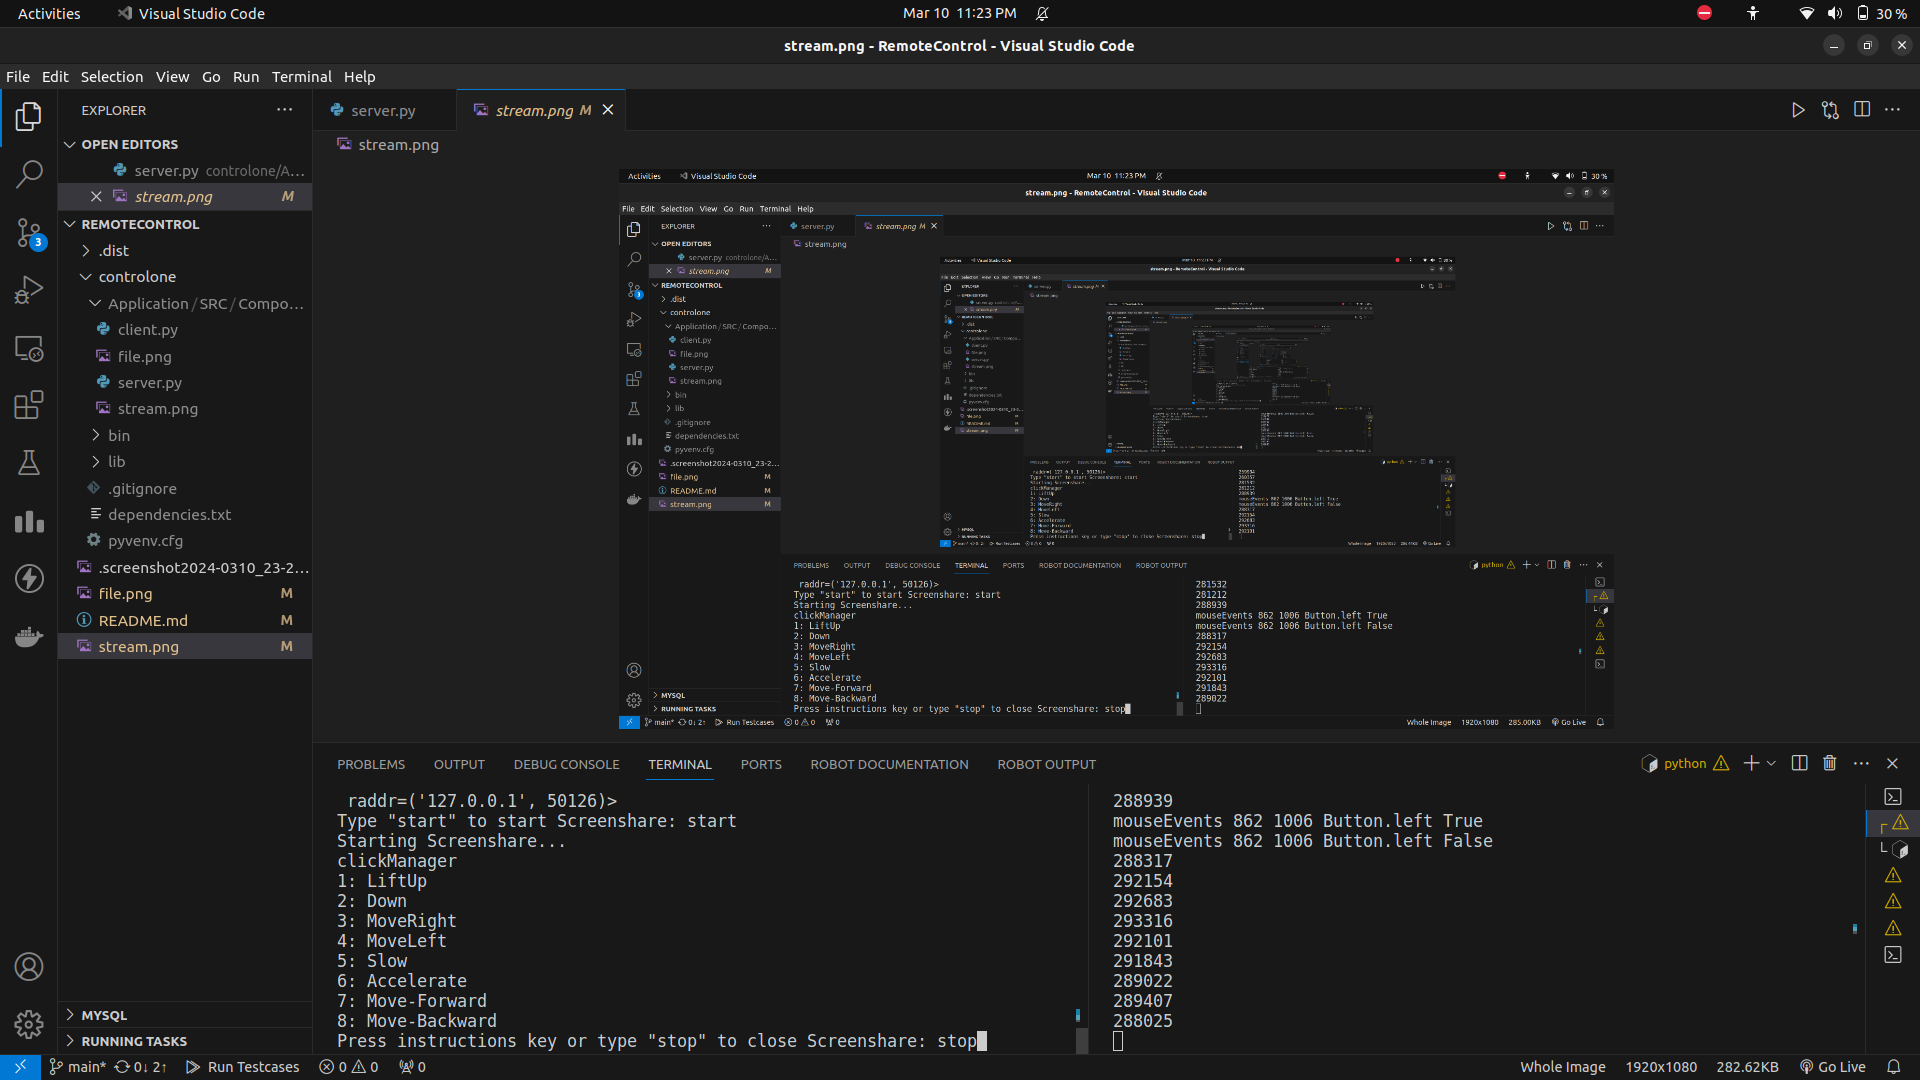
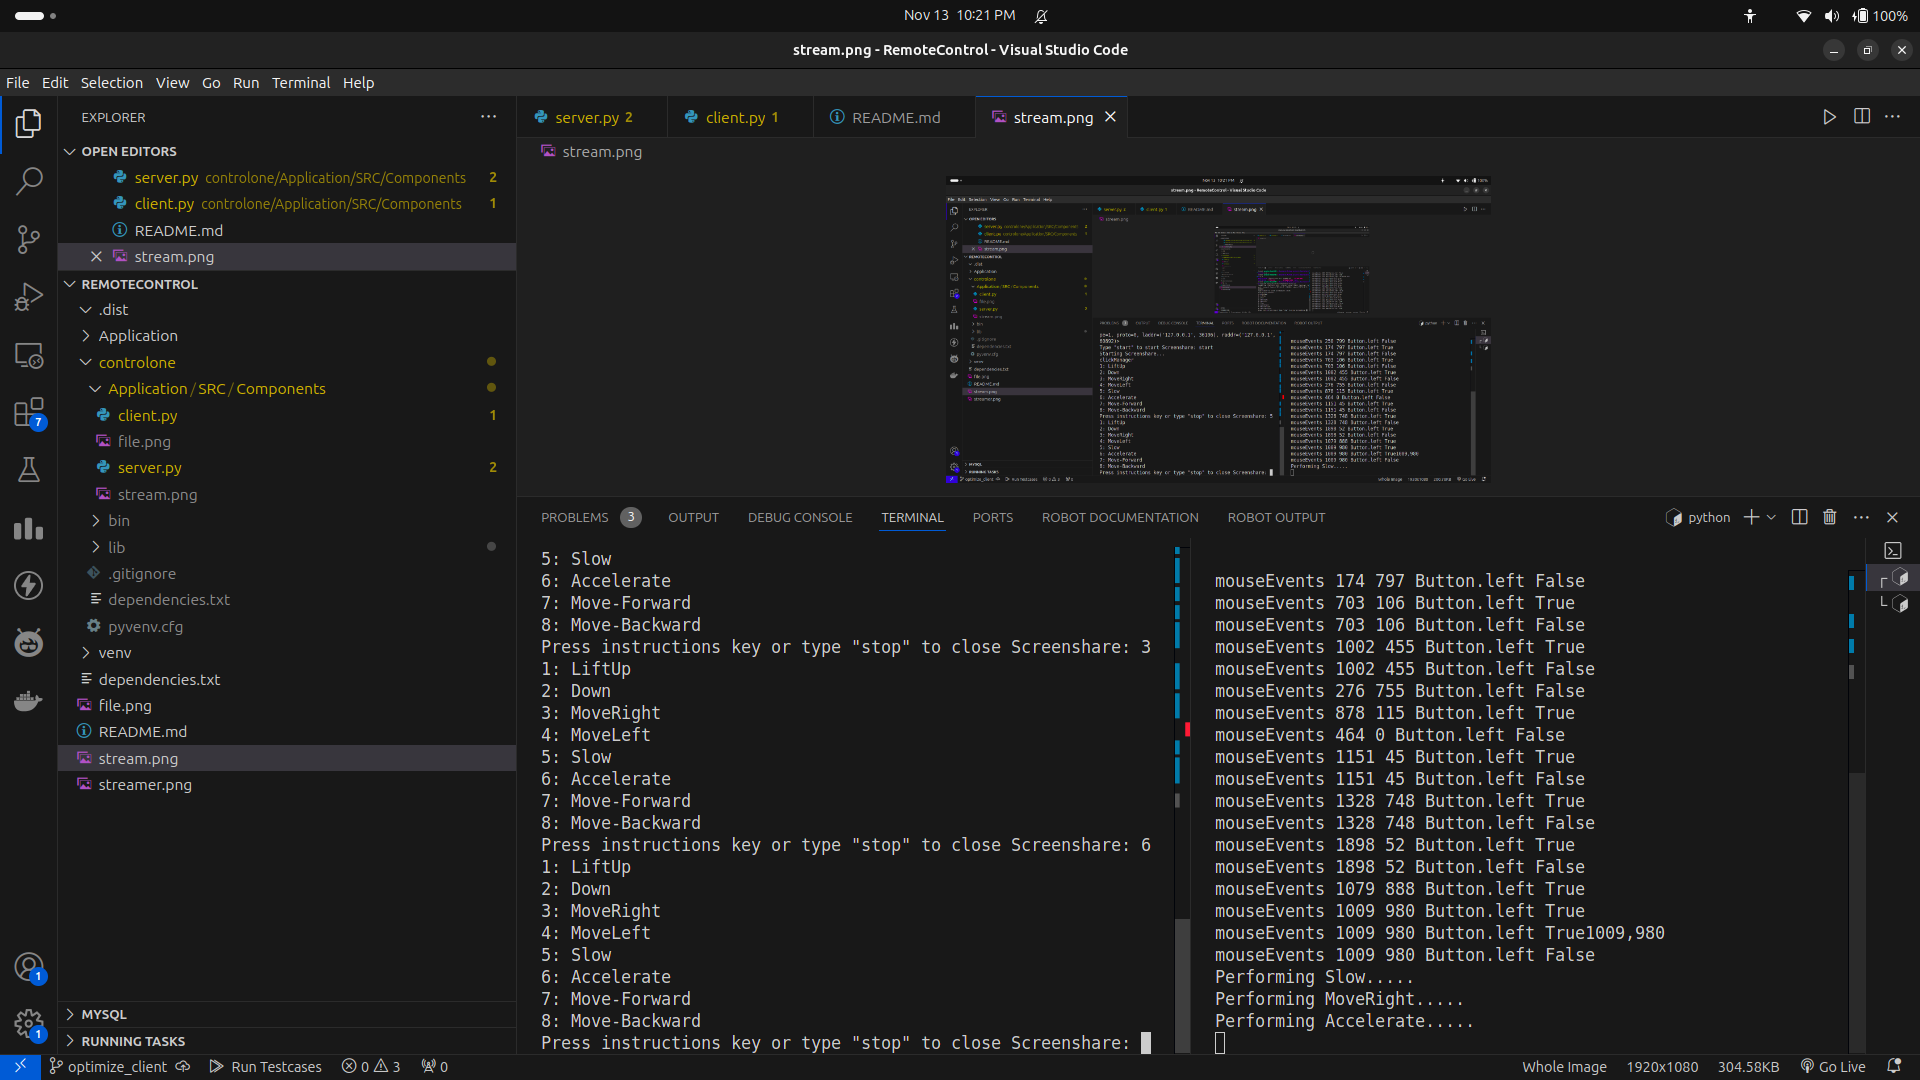
removed file save->read from client side

diff --git a/controlone/Application/SRC/Components/server.py b/controlone/Application/SRC/Components/server.py
@@ -1,0 +1,111 @@
+import socket
+import time
+from threading import *
+import pyautogui as auto
+from pynput.mouse import Listener
+
+
+class ConnectionClosed(Exception):
+    def __init__(self,message):
+        super().__init__(message)
+        
+class MouseEvents(Thread):
+    def __init__(self,name,clt):
+        super().__init__()
+        self.clt=clt
+        self.name=name
+    def run(self):
+        print(self.name)
+        with Listener(on_click=self.onClickListner) as listener:
+            listener.join()
+    def onClickListner(self,*args):
+        self.clt.send(bytes(f'mouseEvents {args[0]} {args[1]} {str(args[-2]).split()[-1]} {args[-1]}','utf-8'))   
+
+
+class Comunication(Thread):
+    def __init__(self,machine,con):
+        super().__init__(name=machine)
+        self.con=con
+        self.machine=machine
+        self._stop_event=Event()
+    def stop(self):
+        print('Terminating ',self.name)
+        self._stop_event.set()
+
+
+    def stopped(self):
+        return self._stop_event.is_set()
+
+    def run(self) -> None:
+        try:
+            while True:
+                if self.machine=='sender':
+                    point=auto.position()
+                    self.con.send(bytes(f'{point.x},{point.y}','utf-8'))
+                    time.sleep(.2)
+                elif self.machine=='reciever':
+                    buffer=b''
+                    try:
+                        imgSize=int(self.con.recv(1048576).decode())
+                    except:
+                        continue
+                    size=0
+                    while size<imgSize:
+                        buffer+=self.con.recv(1048576)
+                        size=len(buffer)
+                    
+                    if buffer:
+                        img=open('streamer.png','wb+')
+                        img.write(buffer)
+                        img.close()
+                else:
+                    raise ConnectionClosed('Connection has been closed by client')
+        except:
+            try:
+                self.con.send(bytes('exit','utf-8'))
+            except:
+                self.con.close()
+         
+
+
+def startScreen(start,clt,sender,reciever):
+    if not start:
+        start=(True if input('Type "start" to start Screenshare: ').lower()=='start' else False)
+        if start:
+            clt.send(bytes('True','utf-8'))
+            print('Starting Screenshare...')
+            time.sleep(.3)
+            sender.start()
+            reciever.start()
+        else:
+            startScreen(False)
+    return start
+def instructor(instruction,clt,sender,reciever):
+    print(*instruction,sep="\n")
+    start=input('Press instructions key or type "stop" to close Screenshare: ' ).lower()
+    if start>'0' and start<'9':
+        if int(start)<9 and int(start)>0:
+            clt.send(bytes(f'instruction {instruction[int(start)-1]}','utf-8'))
+        else:print('!!! Invalid instruction !!!')
+        instructor(instruction,clt,sender,reciever)
+    else:
+        clt.send(bytes('False','utf-8'))
+        print('Stopping Screenshare...')
+        sender.stop()
+        reciever.stop()
+        clt.close()
+if __name__=='__main__':
+    server=socket.socket(socket.AF_INET,socket.SOCK_STREAM)
+    machine=socket.gethostname()
+    server.bind(('127.0.0.1',30008))                #This machines IP address
+    server.listen(1)
+    print('Server srated')
+    clt,addr=server.accept()
+    print('Connection Stablished with, ',clt)
+    sender=Comunication('sender',clt)
+    reciever=Comunication('reciever',clt)
+    clickMngr=MouseEvents('clickManager',clt)
+    start=startScreen(False,clt,sender,reciever)
+    clickMngr.start()
+    instruction=["1: LiftUp","2: Down","3: MoveRight","4: MoveLeft",'5: Slow','6: Accelerate',"7: Move-Forward","8: Move-Backward"]
+    instructor(instruction,clt,sender,reciever)

diff --git a/controlone/Application/SRC/Components/client.py b/controlone/Application/SRC/Components/client.py
@@ -1,0 +1,80 @@
+import socket
+from threading import *
+import time
+import pyautogui as auto
+
+
+
+class ConnectionClosed(Exception): 
+    def __init__(self,message):
+        super().__init__(message)
+
+class Comunication(Thread):
+    def __init__(self,machine,con):
+        super().__init__(name=machine)
+        self.con=con
+        self.machine=machine
+        self.cursor=[]
+
+
+    def run(self) -> None:
+        pre=0
+        
+            
+        while True:
+
+            if self.machine=='sender':
+                img=auto.screenshot()
+                self.con.send(bytes(f'{img.size}','utf-8'))
+                time.sleep(.2)
+                self.con.sendall(img)
+
+            elif self.machine=='reciever':
+                try:
+                    data=str(self.con.recv(1024).decode())
+                    if data=='False' or data=='exit':
+                        break
+                    elif data.startswith('instruction'):
+                        print(f'Performing {data.split()[2]}.....')
+
+                    elif data.startswith('mouseEvent'):
+                        _,x,y,click,status=map(str,data.split())
+                        if click=='Button.left':
+                            if status=='True':
+                                auto.mouseDown(int(x),int(y),button='left')
+                            else:
+                                auto.mouseUp(int(x),int(y),button='left') 
+                        elif click=='Button.middle':
+                            if status=='True':
+                                auto.mouseDown(int(x),int(y),button='middle')
+                            else:
+                                auto.mouseUp(int(x),int(y),button='middle')
+                        elif click=='Button.right':
+                            if status=='True':
+                                auto.mouseDown(int(x),int(y),button='right')
+                            else:
+                                auto.mouseUp(int(x),int(y),button='right')
+                        print(data)
+                    else:
+                        try:
+                            x,y=data.split(',')
+                            auto.moveTo(int(x),int(y))
+                        except:
+                            pass
+                        
+
+                except Exception as e:
+                    print(e,'75')
+
+    
+
+if __name__=='__main__':
+    client= socket.socket(socket.AF_INET,socket.SOCK_STREAM)
+    client.connect(('127.0.0.1',30008))            #server's IP address required 
+    reciever=Comunication('reciever',client)
+    sender=Comunication('sender',client)
+    start=str(client.recv(1024).decode())
+    if start=='True':
+        sender.start()
+        reciever.start()
+    
